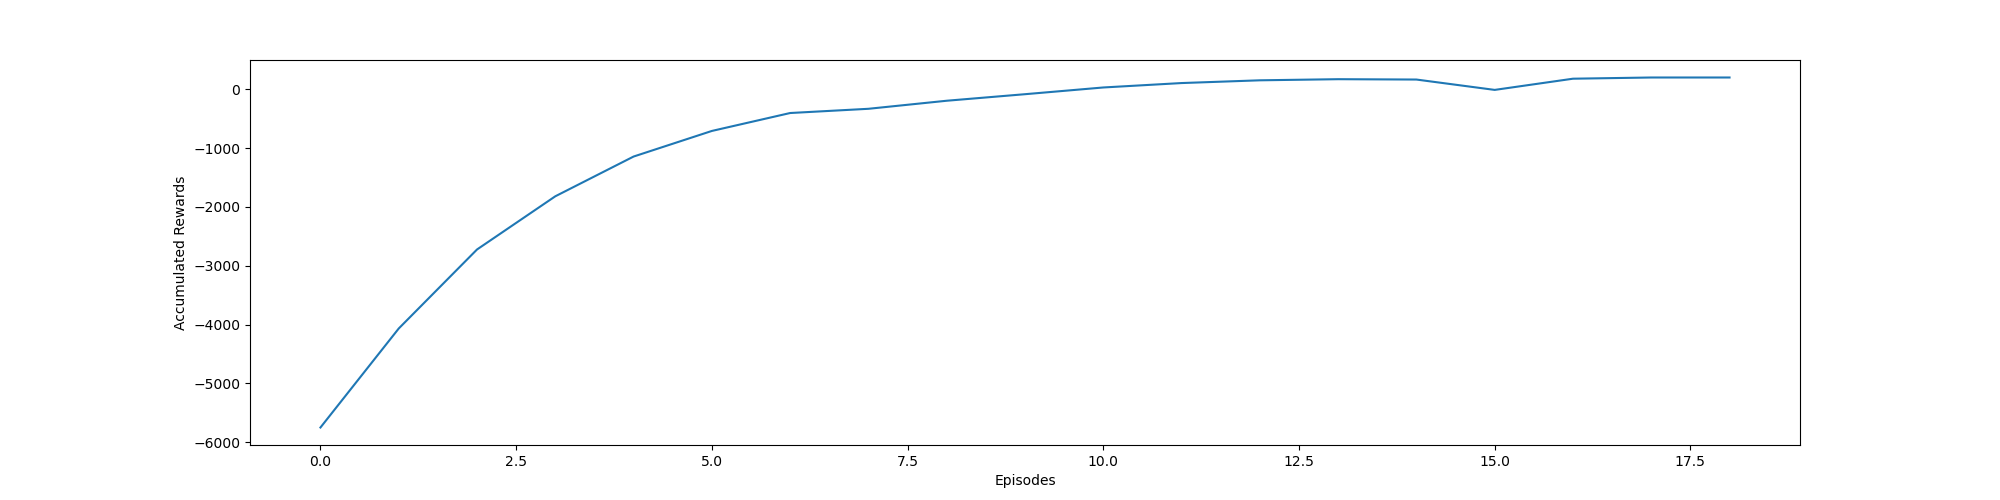
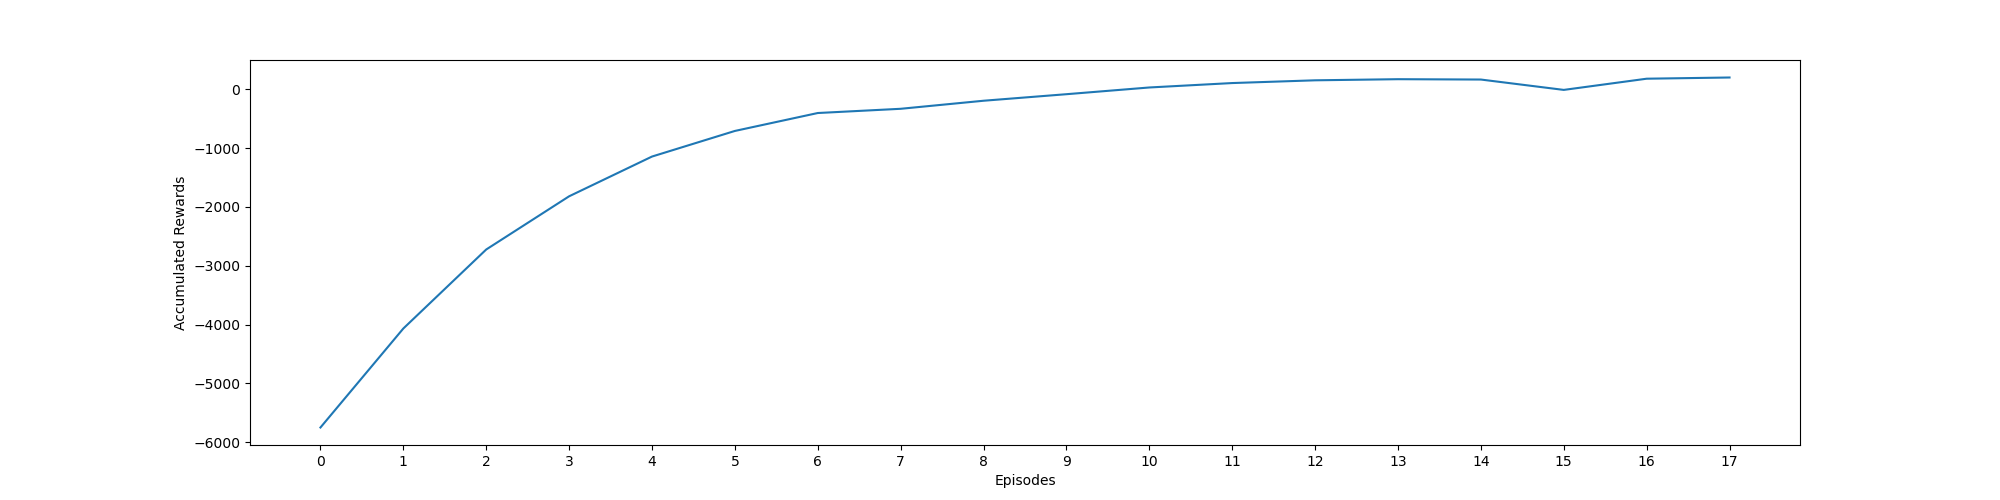
figures for dqn v

diff --git a/RL_model/dqn_res_v4/test.py b/RL_model/dqn_res_v4/test.py
@@ -6,6 +6,7 @@
 
 
 import json
+import math
 
 
 import matplotlib.pyplot as plt
@@ -41,25 +42,36 @@ def plot(rewards1, rewards2):
 
 
 
-total_wmu_cam_trigger_times = [5530, 3964, 2752, 1925, 1313, 892, 605, 440, 313, 226, 174, 133, 101, 83, 81, 93, 82, 73, 73]
 
-total_wmu_mic_trigger_times = [3717, 2467, 1777, 1229, 822, 565, 368, 261, 171, 105, 93, 45, 39, 33, 138, 292, 21, 12, 12]
+total_wmu_cam_trigger_times = [5530, 3964, 2752, 1925, 1313, 892, 605, 440, 313, 226, 174, 133, 101, 83, 81, 93, 82, 73]
 
-total_wmu_trigger_times = [1867, 1244, 940, 619, 412, 280, 199, 148, 94, 60, 63, 31, 31, 32, 28, 30, 18, 9, 9]
+total_wmu_mic_trigger_times = [3717, 2467, 1777, 1229, 822, 565, 368, 261, 171, 105, 93, 45, 39, 33, 138, 292, 21, 12]
 
-total_robot_mic_trigger_times = [5802, 5949, 4325, 4678, 3799, 3663, 2371, 7088, 6508, 6563, 1901, 914, 1040, 329, 364, 745, 275, 267, 267]
+total_wmu_trigger_times = [1867, 1244, 940, 619, 412, 280, 199, 148, 94, 60, 63, 31, 31, 32, 28, 30, 18, 9]
 
-total_robot_cam_trigger_times = [3742, 2670, 1960, 1374, 974, 704, 542, 415, 330, 299, 255, 249, 180, 196, 195, 189, 211, 207, 207]
-total_robot_trigger_times = [1924, 1380, 1062, 793, 589, 450, 366, 285, 245, 250, 223, 226, 178, 191, 194, 182, 209, 204, 204]
+total_robot_mic_trigger_times = [5802, 5949, 4325, 4678, 3799, 3663, 2371, 7088, 6508, 6563, 1901, 914, 1040, 329, 364, 745, 275, 267]
 
-total_privacy_times = [596, 448, 334, 204, 170, 128, 129, 98, 105, 82, 90, 77, 70, 77, 75, 69, 79, 66, 66]
+total_robot_cam_trigger_times = [3742, 2670, 1960, 1374, 974, 704, 542, 415, 330, 299, 255, 249, 180, 196, 195, 189, 211, 207]
+total_robot_trigger_times = [1924, 1380, 1062, 793, 589, 450, 366, 285, 245, 250, 223, 226, 178, 191, 194, 182, 209, 204]
+
+total_privacy_times = [596, 448, 334, 204, 170, 128, 129, 98, 105, 82, 90, 77, 70, 77, 75, 69, 79, 66]
 
 
-scores = [-5748.73999999987, -4065.63999999983, -2722.4799999999263, -1818.1599999999328, -1142.4999999999498, -707.2199999999509, -402.4399999999704, -330.63999999996065, -193.74000000003394, -82.56000000000225, 31.760000000000645, 106.89999999999955, 153.62000000000168, 172.58000000000015, 166.64000000000007, -9.459999999999685, 180.91999999999985, 201.3799999999998, 201.3799999999998]
+scores = [-5748.73999999987, -4065.63999999983, -2722.4799999999263, -1818.1599999999328, -1142.4999999999498, -707.2199999999509, -402.4399999999704, -330.63999999996065, -193.74000000003394, -82.56000000000225, 31.760000000000645, 106.89999999999955, 153.62000000000168, 172.58000000000015, 166.64000000000007, -9.459999999999685, 180.91999999999985, 201.3799999999998]
 
+default_x_ticks = range(len(scores))
 
 print('len(scores):', len(scores))
-plotone(scores, fig = "dqn_accumulated_rewards.png", xlabel = "Episodes", ylabel="Accumulated Rewards")
+#plotone(scores, fig = "dqn_accumulated_rewards.png", xlabel = "Episodes", ylabel="Accumulated Rewards")
+
+plt.figure(figsize=(20,5))
+plt.plot(default_x_ticks, scores)
+plt.xticks(default_x_ticks)
+plt.xlabel('Episodes')
+plt.ylabel('Accumulated Rewards')
+# plt.legend()
+plt.savefig('dqn_accumulated_rewards.png')
+plt.clf()
 
 
 
@@ -73,6 +85,10 @@ plt.plot(total_robot_mic_trigger_times, label='total_robot_mic_trigger_times')
 plt.plot(total_robot_cam_trigger_times, label='total_robot_cam_trigger_times')
 #plt.plot(total_robot_trigger_times, label='total_robot_mic_cam_trigger_times')
 plt.plot(total_privacy_times, label='privacy_occur_times')
+
+
+
+plt.xticks(default_x_ticks)
 
 plt.xlabel("Episodes")
 plt.ylabel("Times")
